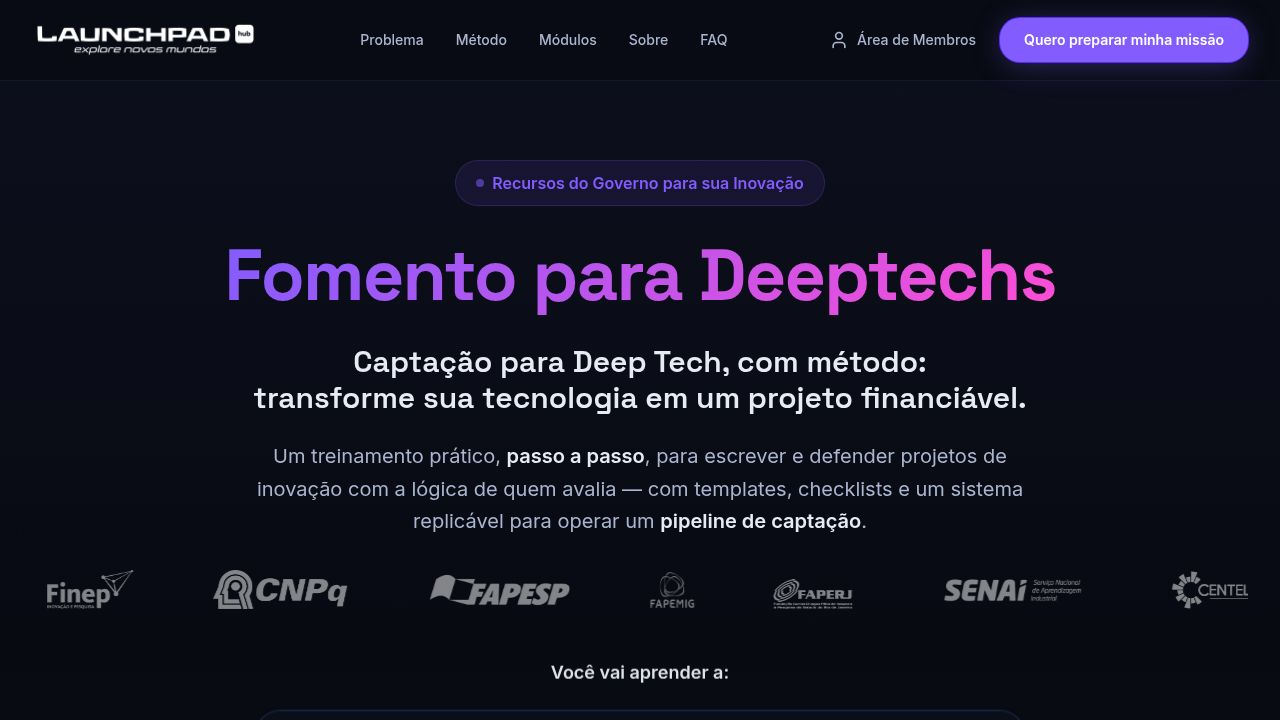
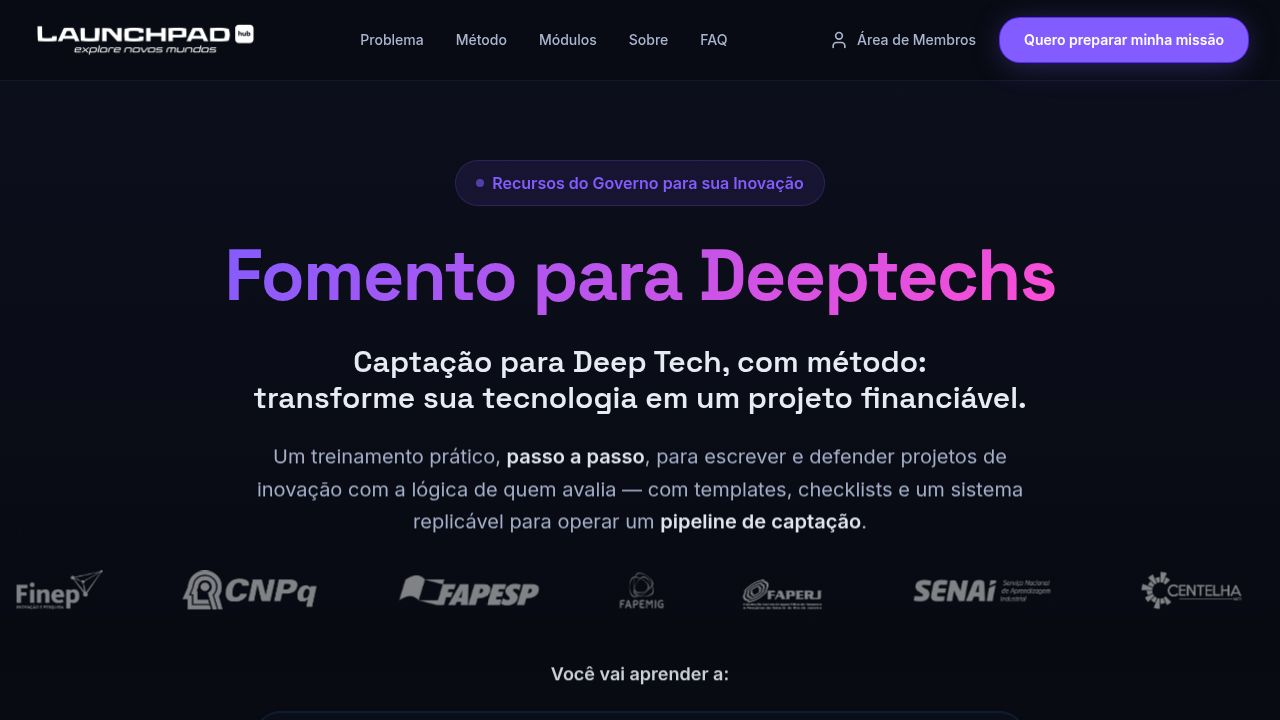
Add a new pre-sale signup page with a Google Forms embed
Create a new route at /lista that mirrors the main landing page but replaces the Hotmart checkout section with an embedded Google Form for pre-sale signups.

Replit-Commit-Author: Agent
Replit-Commit-Session-Id: cc5c72fd-722a-40cb-bd3e-0e9b45827596
Replit-Commit-Checkpoint-Type: full_checkpoint
Replit-Commit-Event-Id: bf6953f0-d882-4866-8f7c-a2a6886df377
Replit-Commit-Screenshot-Url: https://storage.googleapis.com/screenshot-production-us-central1/c94249a8-a676-40ce-bce9-b202edd17bc7/cc5c72fd-722a-40cb-bd3e-0e9b45827596/S0CVz8Z
Replit-Helium-Checkpoint-Created: true

diff --git a/client/src/pages/lista.tsx b/client/src/pages/lista.tsx
@@ -1,0 +1,73 @@
+import { Navbar } from "@/components/landing/Navbar";
+import { Hero } from "@/components/landing/Hero";
+import { ShortFold } from "@/components/landing/ShortFold";
+import { ProblemSection } from "@/components/landing/ProblemSection";
+import { WhatIsSection } from "@/components/landing/WhatIsSection";
+import { DeliverablesSection } from "@/components/landing/DeliverablesSection";
+import { MethodSection } from "@/components/landing/MethodSection";
+import { ForWhoSection } from "@/components/landing/ForWhoSection";
+import { ModulesSection } from "@/components/landing/ModulesSection";
+import { LogoCarousel } from "@/components/landing/LogoCarousel";
+import { AboutSection } from "@/components/landing/AboutSection";
+import { FAQSection } from "@/components/landing/FAQSection";
+import { Footer } from "@/components/landing/Footer";
+
+const PRE_SALE_FORM_URL =
+  "https://docs.google.com/forms/d/e/1FAIpQLScaA1q3j1zm-gZ3oEwedC6CO0gresyzlr2XATlgv4YtuX_10g/viewform?embedded=true";
+
+export default function Lista() {
+  return (
+    <div className="min-h-screen bg-background text-foreground">
+      <div className="fixed inset-0 bg-starfield opacity-40 pointer-events-none" />
+      <div className="relative z-10">
+        <Navbar />
+        <main>
+          <Hero />
+          <ShortFold />
+          <ProblemSection />
+          <WhatIsSection />
+          <DeliverablesSection />
+          <LogoCarousel title="Aprenda um método para aumentar suas chances de aprovação em qualquer edital" />
+          <MethodSection />
+          <ForWhoSection />
+          <ModulesSection />
+          <LogoCarousel />
+          <AboutSection />
+
+          <section id="oferta" className="py-20 lg:py-28 bg-gradient-to-b from-cta/5 via-cta/10 to-cta/5 scroll-mt-20">
+            <div className="max-w-7xl mx-auto px-6 lg:px-8">
+              <div className="max-w-3xl mx-auto">
+                <div className="text-center mb-10">
+                  <h2 className="font-display font-bold text-3xl lg:text-4xl xl:text-5xl text-text mb-4" data-testid="text-presale-title">
+                    Entre na lista de pré-venda
+                  </h2>
+                  <p className="text-text-muted text-lg leading-relaxed" data-testid="text-presale-subtitle">
+                    Deixe seu contato para receber em primeira mão as informações de abertura, condições e próximos passos.
+                  </p>
+                </div>
+
+                <div className="bg-surface border border-stroke/60 rounded-3xl overflow-hidden">
+                  <div className="w-full bg-white" data-testid="container-presale-form">
+                    <iframe
+                      src={PRE_SALE_FORM_URL}
+                      className="w-full h-[1100px] border-0"
+                      title="Lista de pré-venda LaunchpadHub"
+                      data-testid="iframe-presale-form"
+                    />
+                  </div>
+                </div>
+
+                <p className="mt-4 text-center text-sm text-text-muted" data-testid="text-presale-note">
+                  Formulário hospedado no Google Forms.
+                </p>
+              </div>
+            </div>
+          </section>
+
+          <FAQSection />
+        </main>
+        <Footer />
+      </div>
+    </div>
+  );
+}

diff --git a/client/src/App.tsx b/client/src/App.tsx
@@ -5,11 +5,13 @@ import { Toaster } from "@/components/ui/toaster";
 import { TooltipProvider } from "@/components/ui/tooltip";
 import NotFound from "@/pages/not-found";
 import Home from "@/pages/home";
+import Lista from "@/pages/lista";
 
 function Router() {
   return (
     <Switch>
-      <Route path="/" component={Home}/>
+      <Route path="/" component={Home} />
+      <Route path="/lista" component={Lista} />
       <Route component={NotFound} />
     </Switch>
   );